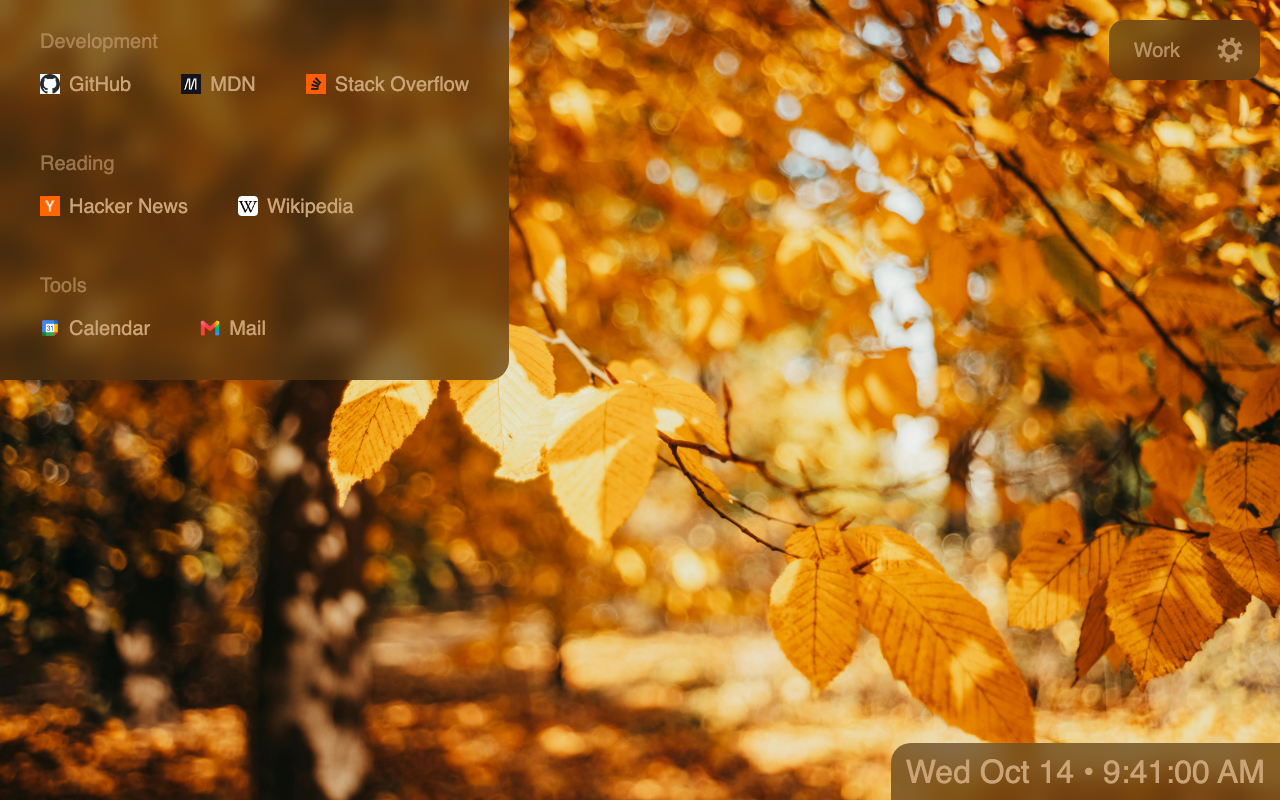
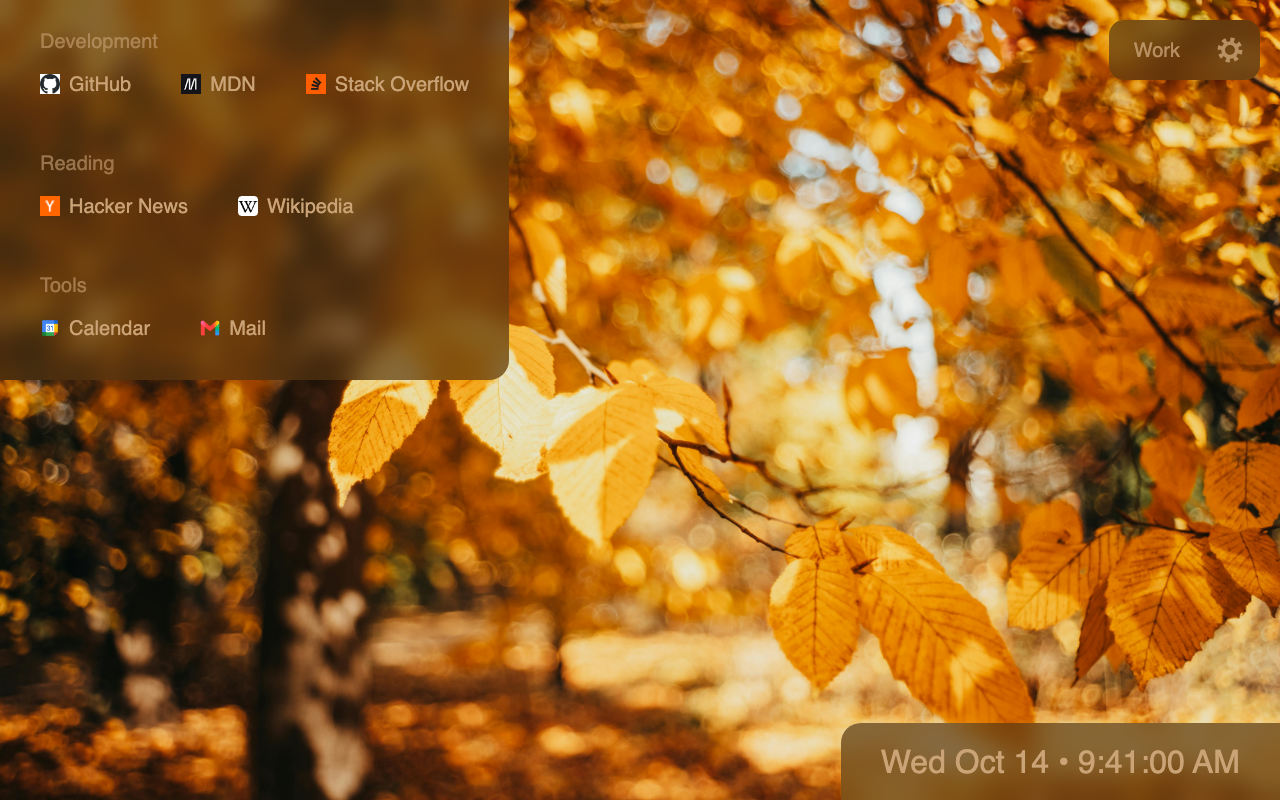
Drive all panel spacing from Density so clock and links match
Density scaled the clock's padding by a factor but switched the links
between hand-picked values, and the panels' own padding didn't change at
all, so the two panels drifted apart at Compact and Spacious.

Every padding and gap in both panels is now a base value times
--density (0.6, 1 or 1.6). The clock's padding also lines up with the
links panel: its padding vertically and the links' text inset
horizontally, which puts the lock-screen divider in line with the link
text.

Regenerates the store screenshots.

Changed region(s): [[0.6562, 0.9062, 1.0, 1.0]]

diff --git a/panels.css b/panels.css
@@ -30,7 +30,7 @@ a.link {
   display: inline-block;
   color: var(--text);
   text-decoration: none;
-  padding: 0.5rem 1rem 0.5rem;
+  padding: calc(0.5rem * var(--density, 1)) calc(1rem * var(--density, 1));
   border-radius: 0.5rem;
   transition:
     background-color 0.3s,
@@ -59,7 +59,7 @@ body.no-favicons a.link .favicon {
   border-radius: var(--panel-radius);
   backdrop-filter: blur(var(--panel-blur));
   box-shadow: var(--panel-line);
-  padding: 1rem;
+  padding: calc(1rem * var(--density, 1));
   max-height: 100%;
   overflow: auto;
 }
@@ -84,12 +84,12 @@ body.no-favicons a.link .favicon {
     display: flex;
     flex-direction: column;
     align-items: flex-start;
-    margin: 0 0 1.8rem;
+    margin: 0 0 calc(1.8rem * var(--density, 1));
 
     & label {
       opacity: 0.6;
       display: inline;
-      padding: 0.5rem 1rem;
+      padding: calc(0.5rem * var(--density, 1)) calc(1rem * var(--density, 1));
       color: var(--text);
       border-top-left-radius: 0.5rem;
       border-top-right-radius: 0.5rem;
@@ -98,7 +98,7 @@ body.no-favicons a.link .favicon {
     & .links {
       display: flex;
       flex-direction: row;
-      gap: 0.5rem;
+      gap: calc(0.5rem * var(--density, 1));
       border-top-right-radius: 0.5rem;
       border-bottom-left-radius: 0.5rem;
       border-bottom-right-radius: 0.5rem;
@@ -112,7 +112,7 @@ body.no-favicons a.link .favicon {
     }
 
     &:last-child {
-      margin: 0 0 0.5rem;
+      margin: 0 0 calc(0.5rem * var(--density, 1));
     }
   }
 }
@@ -122,11 +122,11 @@ body.no-favicons a.link .favicon {
   bottom: 0rem;
   right: 0rem;
   zoom: var(--clock-scale);
-  /* em, so it tracks the clock's own font size; tighter than the
-     default panel padding */
-  --clock-pad-y: 0.5em;
-  --clock-pad-x: 0.75em;
-  /* --density comes from the density setting (see the end of this file) */
+  /* Matches the links panel: its padding vertically, and its text inset
+     (panel padding plus link padding) horizontally, so the two panels read
+     as a set. --density comes from the density setting (end of file). */
+  --clock-pad-y: 1rem;
+  --clock-pad-x: 2rem;
   padding: calc(var(--clock-pad-y) * var(--density, 1)) calc(var(--clock-pad-x) * var(--density, 1));
   z-index: 1;
   border-top-right-radius: 0;
@@ -248,8 +248,9 @@ body[data-layout="sidebar"] {
 body[data-layout="center"],
 body[data-layout="sidebar"] {
   & .clock {
+    /* x matches the links' text inset, so the divider lines up with them */
     --clock-pad-y: 1.1rem;
-    --clock-pad-x: 1.5rem;
+    --clock-pad-x: 2rem;
     text-align: center;
 
     & > span {
@@ -298,48 +299,12 @@ body[data-layout="sidebar"] {
   }
 }
 
-/* Density; comfortable is the base spacing above. --density scales the
-   clock's padding; the links get their own spacing below. */
+/* Density scales every padding and gap in both panels (the calc()s using
+   --density above); comfortable is 1 */
 body[data-density="compact"] {
   --density: 0.6;
 }
 
 body[data-density="spacious"] {
   --density: 1.6;
-}
-
-body[data-density="compact"] .link-groups {
-  & a.link {
-    padding: 0.25rem 0.6rem;
-  }
-
-  & .group {
-    margin-bottom: 0.9rem;
-
-    & label {
-      padding: 0.25rem 0.6rem;
-    }
-  }
-
-  & .links {
-    gap: 0.2rem;
-  }
-}
-
-body[data-density="spacious"] .link-groups {
-  & a.link {
-    padding: 0.75rem 1.3rem;
-  }
-
-  & .group {
-    margin-bottom: 2.6rem;
-
-    & label {
-      padding: 0.6rem 1.3rem;
-    }
-  }
-
-  & .links {
-    gap: 0.9rem;
-  }
 }
